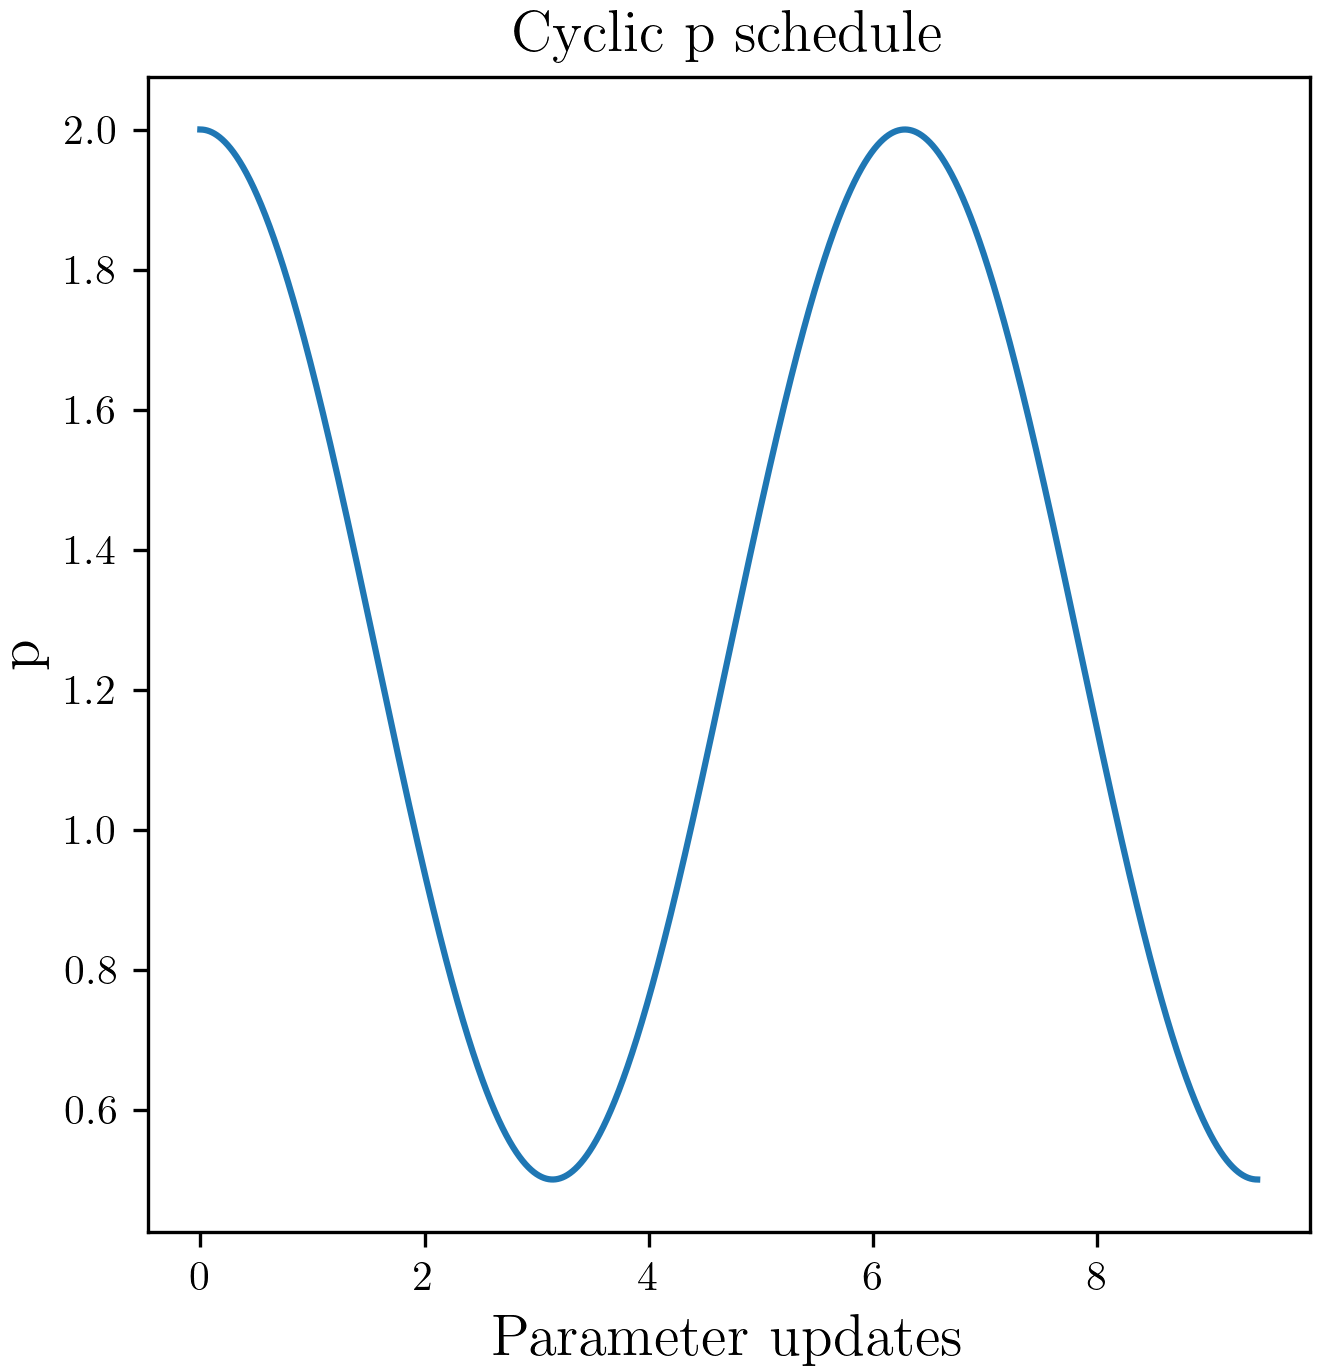
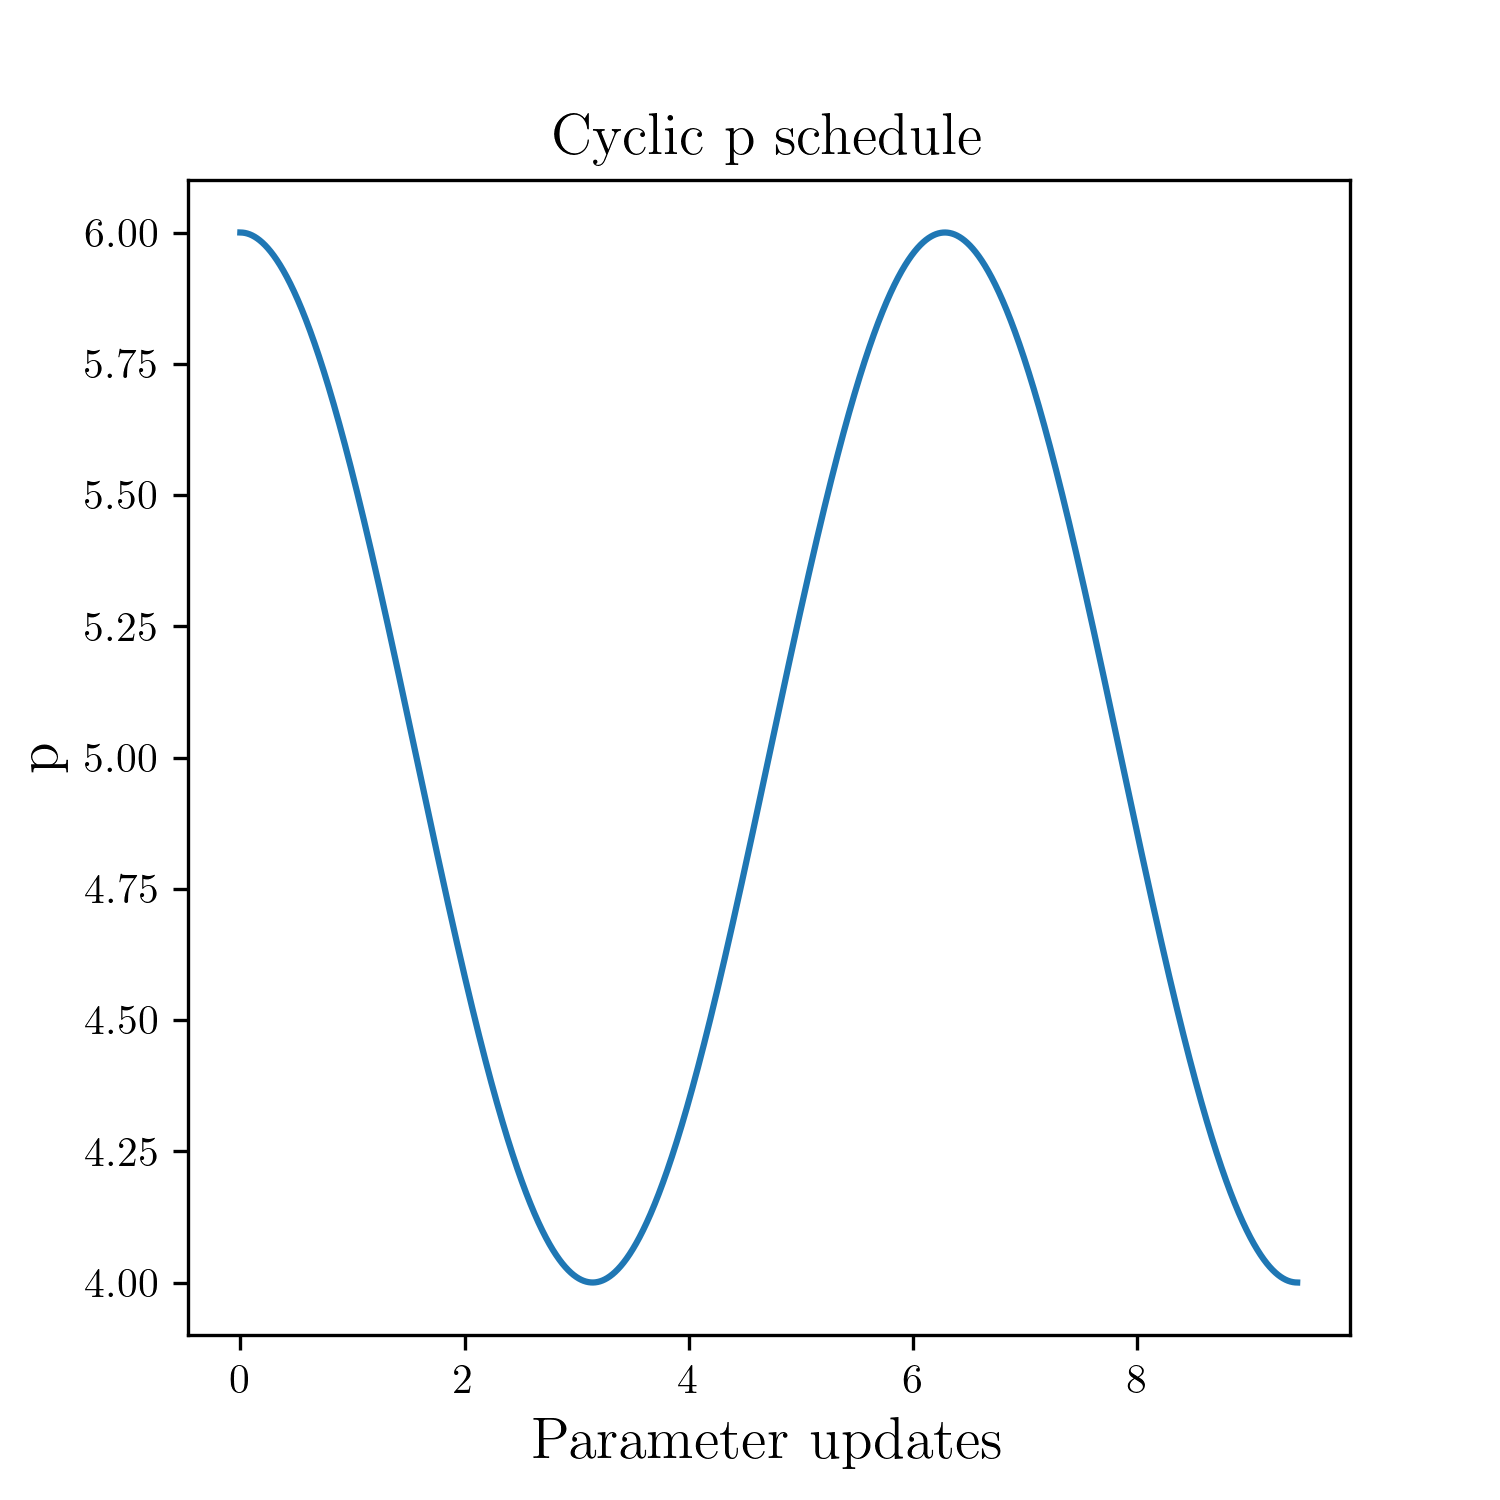
much less variation in cyclic

diff --git a/plotting/visual_plots/cyclic_annealing.py b/plotting/visual_plots/cyclic_annealing.py
@@ -9,10 +9,10 @@ plt.rcParams.update({
     'text.latex.preamble': r'\usepackage{amsmath} \usepackage{amsfonts} \usepackage{amssymb} \usepackage{bm} \newcommand{\probP}{\text{I\kern-0.15em P}}'  
 })
 
-num_param_updates = 100000  # Example value
+num_param_updates = 8000  # Example value
 num_cycles = 1  # Example value
-initial_p = 2  # Example value
-end_p = 0.5 # Example value
+initial_p = 6  # Example value
+end_p = 4 # Example value
 
 x = np.linspace(0, 2 * np.pi * (num_cycles+0.5), num_param_updates + 1)
 p = initial_p + (end_p - initial_p) * 0.5 * (1 - np.cos(x))
